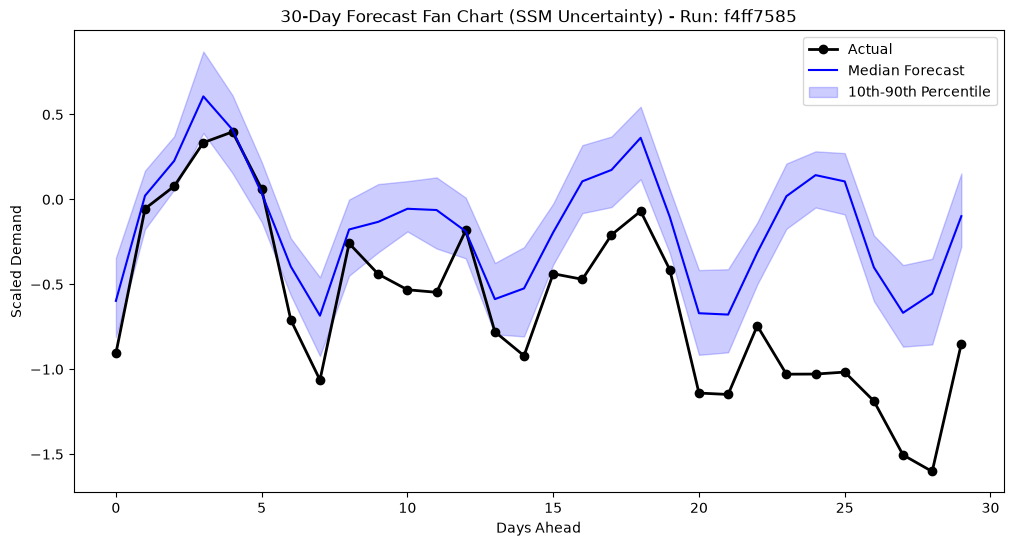
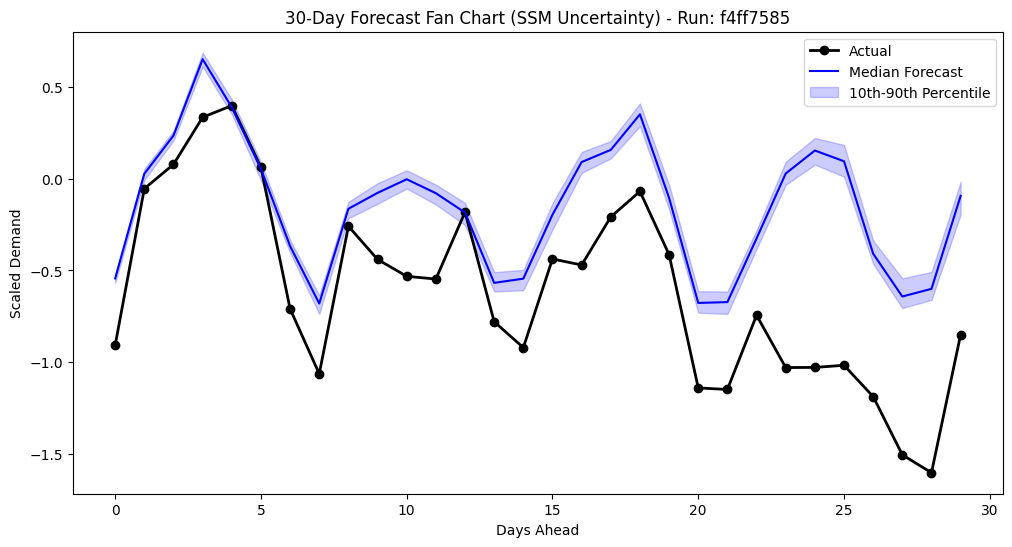
altered where dropout is used in the model, removed from f_net

diff --git a/SSM/src/models/ssm.py b/SSM/src/models/ssm.py
@@ -21,7 +21,6 @@ class LatentSSM(nn.Module):
         self.f_net = nn.Sequential(
             nn.Linear(latent_dim, hidden_dim),
             nn.ReLU(),
-            nn.Dropout(dropout),
             nn.Linear(hidden_dim, latent_dim)
         )
         self.gate_net = nn.Linear(latent_dim, latent_dim)
@@ -84,7 +83,7 @@ class LatentSSM(nn.Module):
         pred_gen = self.gen_head(shared_features)
         return pred_demand, pred_gen
         
-    def forward(self, encoder_inputs, decoder_inputs, horizon):
+    def forward(self, encoder_inputs, decoder_inputs, horizon, sample=False):
         """
         encoder_inputs: [batch, seq_len, input_dim]
         decoder_inputs: [batch, horizon, known_dim]
@@ -94,15 +93,18 @@ class LatentSSM(nn.Module):
         
         # 1. Infer initial state z0
         z0_mean, z0_logvar = self.encode(encoder_inputs)
-        z0 = self.reparameterize(z0_mean, z0_logvar)
+        if self.training or sample:
+            z0 = self.reparameterize(z0_mean, z0_logvar)
+        else:
+            z0 = z0_mean
         
         # 2. Rollout latent dynamics over horizon
         z_seq = []
         z_curr = z0
         for _ in range(horizon):
             z_curr = self.transition(z_curr)
-            # Add process noise during training (optional, or just use the mean for emission)
-            if self.training:
+            # Add process noise during training or when explicitly sampling
+            if self.training or sample:
                 z_curr = self.reparameterize(z_curr, self.prior_logvar.expand(batch_size, -1))
             z_seq.append(z_curr)
             

diff --git a/SSM/src/eval.py b/SSM/src/eval.py
@@ -191,13 +191,13 @@ def evaluate():
     sample_dec_inputs = test_dataset[0]['decoder_inputs'].unsqueeze(0).to(device)
     sample_true_demand = test_dataset[0]['decoder_targets'][:, demand_idx[0]].numpy() # First demand target (e.g., ND)
     
-    model.train() # Enable process noise sampling
+    # model.train() # Enable process noise sampling - REMOVED: dropout caused divergence
     mc_passes = 100
     mc_preds = []
     
     with torch.no_grad():
         for _ in range(mc_passes):
-            out = model(sample_enc_inputs, sample_dec_inputs, horizon)
+            out = model(sample_enc_inputs, sample_dec_inputs, horizon, sample=True)
             # Take the first demand output
             mc_preds.append(out['pred_demand'][0, :, 0].cpu().numpy())
             